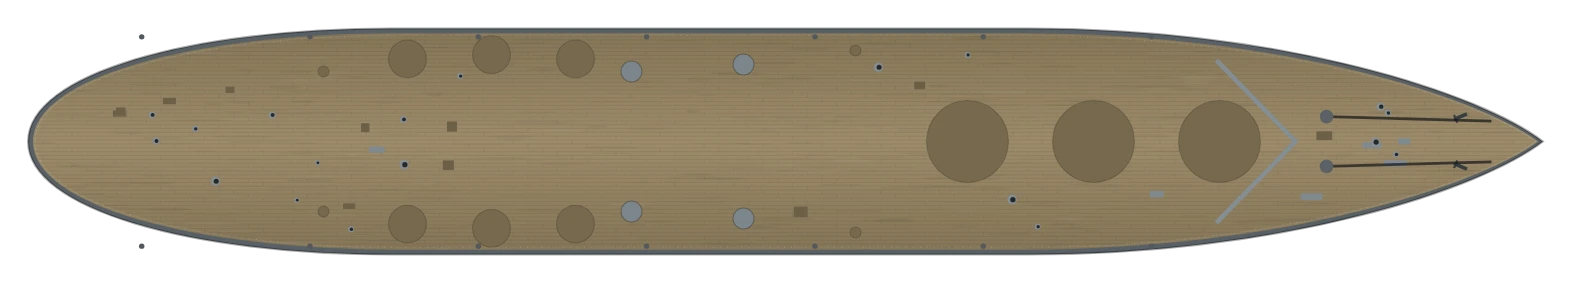
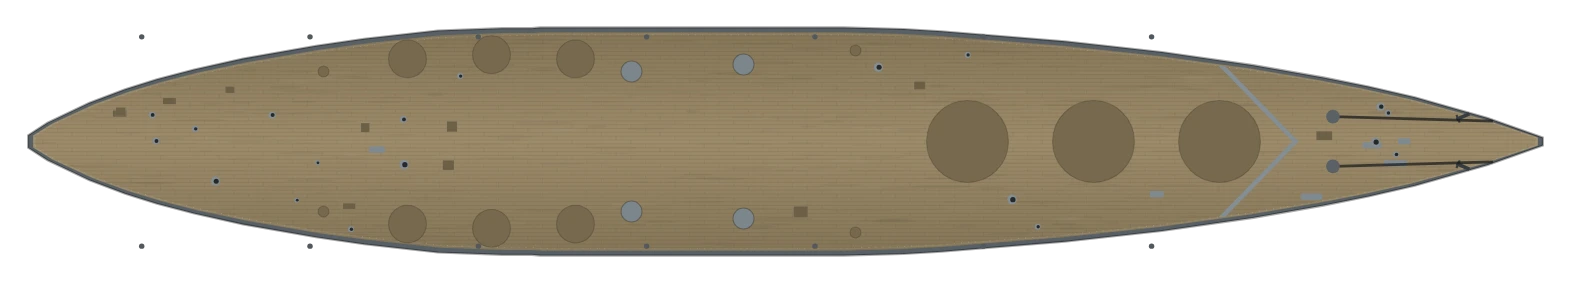
Nelson and Takao hulls traced from the owner's plans; the Takao's third turret faces aft, her bridge moved aft to clear it, one funnel; the Yakumo's CIWS back on her deck
fit_audit: 140 standard-fit faults (from 142; the Yakumo's two CIWS and the Takao's 5-inch pair no longer hang off), none new. aux_test, review_test, run_presets, orders_test pass. shot_art trains a centreline mount to her arc.

Claude-Session: https://claude.ai/code/session_0112riLGm4nSjrgsGiYL5DUG

diff --git a/index.html b/index.html
@@ -398,8 +398,8 @@ const DESIGN_LIST = [
     p: { bow: .32, run: .2, stern: 'c', deck: 'teak', sup: [[30, 18, 12, 4], [-28, 10, 8, 2]], fun: [[8, 3.2, 2.6], [-8, 3.2, 2.6]], mast: [[25, 't'], [-20, 'p']], boats: [[0, 2]], cat: [[80, 0]] },
     slots: [sl('L', 61, 0, FWD, 'g203t'), sl('L', 51, 0, FWD, 'g203t'), sl('L', -49, 0, AFT, 'g203t'), sl('L', -59, 0, AFT, 'g203t'), ...pair('S', 15, 9, 'g102t'), ...pair('S', 1, 9.4, 'g102t'), ...pair('S', -15, 9, 'g102t'), ...pair('A', 24, 8, 'aa40'), ...pair('A', -36, 7.6, 'aa40')] },
   { id: 'ca_takao', cls: 'ca', yard: 'seto', dn: 'Hotaka', model: 'Takao-class cruiser', year: 1932, era: 1, L: 203.8, B: 19, t: 13400, kn: 35.5, td: 880, armor: 102, crew: 773, price: 64000,
-    p: { bow: .36, run: .2, stern: 'c', deck: 'lino', sup: [[30, 24, 13, 5]], fun: [[10, 4, 2.8], [-5, 3.2, 2.4]], mast: [[22, 't'], [-34, 'p']], boats: [[-16, 2]], cat: [[-40, -5], [-40, 5]], crane: [[-47, 0]] },
-    slots: [sl('L', 69, 0, FWD, 'g203t'), sl('L', 59, 0, FWD, 'g203t'), sl('L', 49, 0, FWD, 'g203t'), sl('L', -57, 0, AFT, 'g203t'), sl('L', -67, 0, AFT, 'g203t'), ...pair('M', 4, 8, 'g127'), ...pair('M', -14, 8, 'g127'), ...pair('T', -26, 8, 'tor93'), ...pair('A', 14, 7, 'aa20')] },
+    p: { outline: [[101.9, 0.76], [101.14, 1.52], [99.62, 2.28], [98.64, 2.28], [98.42, 2.93], [98.2, 3.03], [97.55, 3.04], [97.44, 2.82], [96.68, 2.82], [95.27, 3.26], [91.47, 3.84], [85.81, 4.56], [79.73, 5.15], [18.21, 9.28], [5.6, 9.84], [-6.25, 10.03], [-19.08, 9.85], [-33.64, 9.28], [-51.25, 8.26], [-65.6, 7.11], [-72.88, 6.35], [-79.73, 5.46], [-89.51, 3.89], [-95.27, 2.71], [-95.81, 2.7], [-95.92, 2.59], [-97.44, 2.59], [-98.53, 2.05], [-99.94, 1.72], [-100.49, 1.72], [-101.9, 0.96]], deck: 'lino', sup: [[23, 20, 13, 5]], fun: [[1, 7, 4]], mast: [[17, 't'], [-34, 'p']], boats: [[-16, 2]], cat: [[-40, -5], [-40, 5]], crane: [[-47, 0]] },
+    slots: [sl('L', 69, 0, FWD, 'g203t'), sl('L', 59, 0, FWD, 'g203t'), sl('L', 49, 0, AFT, 'g203t'), sl('L', -57, 0, AFT, 'g203t'), sl('L', -67, 0, AFT, 'g203t'), ...pair('M', 4, 8, 'g127'), ...pair('M', -14, 8, 'g127'), ...pair('T', -26, 8, 'tor93'), ...pair('A', 14, 7, 'aa20')] },
   { id: 'ca_hipper', cls: 'ca', yard: 'ostsee', dn: 'Feldherr', model: 'Admiral Hipper-class cruiser', year: 1939, era: 1, L: 202.8, B: 21.3, t: 14050, kn: 32, td: 900, armor: 80, crew: 1382, price: 66000,
     p: { bow: .36, run: .2, stern: 'c', deck: 'teak', sup: [[34, 20, 12, 4], [-32, 12, 9, 2]], fun: [[12, 4.4, 3.4]], mast: [[26, 't'], [-24, 'p']], boats: [[-2, 2]], cat: [[-4, 0]], crane: [[-10, -7], [-10, 7]] },
     slots: [sl('L', 67, 0, FWD, 'g203t'), sl('L', 56, 0, FWD, 'g203t'), sl('L', -56, 0, AFT, 'g203t'), sl('L', -67, 0, AFT, 'g203t'), ...pair('S', 18, 9.2, 'g102t'), ...pair('S', 2, 10, 'g102t'), ...pair('S', -16, 9.2, 'g102t'), ...pair('A', 28, 8, 'aa40'), ...pair('A', -42, 8, 'aa40'), ...pair('T', -38, 9.4, 'tor')] },
@@ -436,7 +436,7 @@ const DESIGN_LIST = [
     p: { bow: .36, run: .22, stern: 't', tw: .45, deck: 'teak', house: [[-2, 64, 16]], sup: [[30, 20, 15, 5], [-30, 16, 11, 3]], fun: [[10, 4, 3.2], [-12, 4, 3.2]], mast: [[22, 't'], [-22, 't']], boats: [[-1, 3]] },
     slots: [sl('H', 66, 0, FWD, 'g381t'), sl('H', 50, 0, FWD, 'g381t'), sl('H', -54, 0, AFT, 'g381t'), sl('H', -70, 0, AFT, 'g381t'), ...pair('M', 30, 12.6, 'g127'), ...pair('M', 18, 13.6, 'g127'), ...pair('M', -20, 13.6, 'g127'), ...pair('M', -34, 12.6, 'g127'), ...pair('A', 41, 10, 'aa40'), ...pair('A', -1, 13.6, 'aa40'), ...pair('A', -44, 10.4, 'aa40')] },
   { id: 'bb_nelson', cls: 'bb', yard: 'clydemouth', dn: 'Rodmoor', model: 'Nelson-class battleship', year: 1927, era: 1, L: 216.4, B: 32.3, t: 33300, kn: 23, td: 800, armor: 356, crew: 1314, price: 120000,
-    p: { bow: .34, run: .24, stern: 'c', deck: 'teak', school: 'tower', house: [[-14, 56, 15]], sup: [[2, 18, 15, 6], [-39, 12, 10, 2]], fun: [[-21, 4.4, 3.4]], mast: [[-34, 't']], boats: [[-12, 2]], crane: [[-28, -9]], tubs: [[-76, 0, 1.8]] },
+    p: { outline: [[108.2, 0.58], [100.33, 3.37], [89.91, 6.31], [83.26, 7.85], [76.83, 9.16], [66.85, 10.91], [53.77, 12.78], [39.91, 14.31], [22.28, 15.74], [16.85, 16.07], [8.31, 16.3], [-35.03, 16.3], [-36.25, 16.19], [-40.46, 16.19], [-49.67, 15.85], [-60.2, 14.67], [-67.07, 13.69], [-77.49, 11.84], [-84.48, 10.3], [-89.8, 8.89], [-94.34, 7.47], [-99.44, 5.55], [-105.43, 2.69], [-108.2, 0.9]], deck: 'teak', school: 'tower', house: [[-14, 56, 15]], sup: [[2, 18, 15, 6], [-39, 12, 10, 2]], fun: [[-21, 4.4, 3.4]], mast: [[-34, 't']], boats: [[-12, 2]], crane: [[-28, -9]], tubs: [[-76, 0, 1.8]] },
     slots: [sl('H', 62, 0, FWD, 'g406'), sl('H', 44, 0, FWD, 'g406'), Object.assign(sl('H', 26, 0, FWD, 'g406'), { low: true }), ...pair('M', -30, 11.8, 'g152t'), ...pair('M', -42, 12.4, 'g152t'), ...pair('M', -54, 11.8, 'g152t'), ...pair('S', 10, 13, 'g102'), ...pair('S', -66, 10, 'g102'), ...pair('A', -6, 11, 'aa40'), ...pair('A', -22, 10, 'aa40')] },
   { id: 'bb_scharnhorst', cls: 'bb', name: 'Fast Battleship', yard: 'ostsee', dn: 'Markgraf', model: 'Scharnhorst-class battleship', year: 1938, era: 1, L: 234.9, B: 30, t: 32100, kn: 31, td: 950, armor: 350, crew: 1669, price: 105000,
     p: { bow: .36, run: .22, stern: 'c', deck: 'teak', house: [[-2, 66, 15]], sup: [[32, 20, 14, 5], [-30, 16, 11, 3]], fun: [[7, 4.6, 3.6]], mast: [[26, 't'], [-22, 'p']], boats: [[-18, 2]], cat: [[-8, 0]], crane: [[-13, -9.5], [-13, 9.5]] },
@@ -629,7 +629,7 @@ const DESIGN_LIST = [
     slots: [sl('T', 28, -1.3, BOW, 'torh'), sl('T', 28, 1.3, BOW, 'torh'), sl('T', 28, 0, BOW, 'torh')] },
   { id: 'cve_izumo', cls: 'cve', name: 'Light Carrier', tech: 'netcentric', yard: 'seto', dn: 'Yakumo', model: 'Izumo-class carrier', year: 2015, era: 4, L: 248, B: 38, t: 19500, kn: 30, td: 1000, armor: 0, crew: 470, hangar: 3, price: 300000,
     p: { bow: .3, run: .2, stern: 't', tw: .6, fd: { w: 38, len: .97, x: 0, isl: [20, 40, 9], modern: true } },
-    slots: [...pair('A', 116, 17.5, 'ciws'), sl('V', -116, -16, ALL, 'sam')] },
+    slots: [...pair('A', 104, 16.5, 'ciws'), sl('V', -116, -16, ALL, 'sam')] },
   { id: 'ss_soryu', cls: 'ss', tech: 'stealth', yard: 'seto', dn: 'Mizuchi', model: 'Soryu-class submarine', year: 2009, era: 4, L: 84, B: 9.1, t: 2900, kn: 13, subKn: 20, td: 420, armor: 0, crew: 65, price: 150000,
     p: { sail: [[12, 9, 2.4]], casing: .22, smooth: true, tear: true, pod: 1 },
     slots: [sl('T', 30, -1.3, BOW, 'torh'), sl('T', 30, 1.3, BOW, 'torh'), sl('V', 22, 0, ALL, 'ssm')] },

diff --git a/src/game.html b/src/game.html
@@ -395,8 +395,8 @@ const DESIGN_LIST = [
     p: { bow: .32, run: .2, stern: 'c', deck: 'teak', sup: [[30, 18, 12, 4], [-28, 10, 8, 2]], fun: [[8, 3.2, 2.6], [-8, 3.2, 2.6]], mast: [[25, 't'], [-20, 'p']], boats: [[0, 2]], cat: [[80, 0]] },
     slots: [sl('L', 61, 0, FWD, 'g203t'), sl('L', 51, 0, FWD, 'g203t'), sl('L', -49, 0, AFT, 'g203t'), sl('L', -59, 0, AFT, 'g203t'), ...pair('S', 15, 9, 'g102t'), ...pair('S', 1, 9.4, 'g102t'), ...pair('S', -15, 9, 'g102t'), ...pair('A', 24, 8, 'aa40'), ...pair('A', -36, 7.6, 'aa40')] },
   { id: 'ca_takao', cls: 'ca', yard: 'seto', dn: 'Hotaka', model: 'Takao-class cruiser', year: 1932, era: 1, L: 203.8, B: 19, t: 13400, kn: 35.5, td: 880, armor: 102, crew: 773, price: 64000,
-    p: { bow: .36, run: .2, stern: 'c', deck: 'lino', sup: [[30, 24, 13, 5]], fun: [[10, 4, 2.8], [-5, 3.2, 2.4]], mast: [[22, 't'], [-34, 'p']], boats: [[-16, 2]], cat: [[-40, -5], [-40, 5]], crane: [[-47, 0]] },
-    slots: [sl('L', 69, 0, FWD, 'g203t'), sl('L', 59, 0, FWD, 'g203t'), sl('L', 49, 0, FWD, 'g203t'), sl('L', -57, 0, AFT, 'g203t'), sl('L', -67, 0, AFT, 'g203t'), ...pair('M', 4, 8, 'g127'), ...pair('M', -14, 8, 'g127'), ...pair('T', -26, 8, 'tor93'), ...pair('A', 14, 7, 'aa20')] },
+    p: { outline: [[101.9, 0.76], [101.14, 1.52], [99.62, 2.28], [98.64, 2.28], [98.42, 2.93], [98.2, 3.03], [97.55, 3.04], [97.44, 2.82], [96.68, 2.82], [95.27, 3.26], [91.47, 3.84], [85.81, 4.56], [79.73, 5.15], [18.21, 9.28], [5.6, 9.84], [-6.25, 10.03], [-19.08, 9.85], [-33.64, 9.28], [-51.25, 8.26], [-65.6, 7.11], [-72.88, 6.35], [-79.73, 5.46], [-89.51, 3.89], [-95.27, 2.71], [-95.81, 2.7], [-95.92, 2.59], [-97.44, 2.59], [-98.53, 2.05], [-99.94, 1.72], [-100.49, 1.72], [-101.9, 0.96]], deck: 'lino', sup: [[23, 20, 13, 5]], fun: [[1, 7, 4]], mast: [[17, 't'], [-34, 'p']], boats: [[-16, 2]], cat: [[-40, -5], [-40, 5]], crane: [[-47, 0]] },
+    slots: [sl('L', 69, 0, FWD, 'g203t'), sl('L', 59, 0, FWD, 'g203t'), sl('L', 49, 0, AFT, 'g203t'), sl('L', -57, 0, AFT, 'g203t'), sl('L', -67, 0, AFT, 'g203t'), ...pair('M', 4, 8, 'g127'), ...pair('M', -14, 8, 'g127'), ...pair('T', -26, 8, 'tor93'), ...pair('A', 14, 7, 'aa20')] },
   { id: 'ca_hipper', cls: 'ca', yard: 'ostsee', dn: 'Feldherr', model: 'Admiral Hipper-class cruiser', year: 1939, era: 1, L: 202.8, B: 21.3, t: 14050, kn: 32, td: 900, armor: 80, crew: 1382, price: 66000,
     p: { bow: .36, run: .2, stern: 'c', deck: 'teak', sup: [[34, 20, 12, 4], [-32, 12, 9, 2]], fun: [[12, 4.4, 3.4]], mast: [[26, 't'], [-24, 'p']], boats: [[-2, 2]], cat: [[-4, 0]], crane: [[-10, -7], [-10, 7]] },
     slots: [sl('L', 67, 0, FWD, 'g203t'), sl('L', 56, 0, FWD, 'g203t'), sl('L', -56, 0, AFT, 'g203t'), sl('L', -67, 0, AFT, 'g203t'), ...pair('S', 18, 9.2, 'g102t'), ...pair('S', 2, 10, 'g102t'), ...pair('S', -16, 9.2, 'g102t'), ...pair('A', 28, 8, 'aa40'), ...pair('A', -42, 8, 'aa40'), ...pair('T', -38, 9.4, 'tor')] },
@@ -433,7 +433,7 @@ const DESIGN_LIST = [
     p: { bow: .36, run: .22, stern: 't', tw: .45, deck: 'teak', house: [[-2, 64, 16]], sup: [[30, 20, 15, 5], [-30, 16, 11, 3]], fun: [[10, 4, 3.2], [-12, 4, 3.2]], mast: [[22, 't'], [-22, 't']], boats: [[-1, 3]] },
     slots: [sl('H', 66, 0, FWD, 'g381t'), sl('H', 50, 0, FWD, 'g381t'), sl('H', -54, 0, AFT, 'g381t'), sl('H', -70, 0, AFT, 'g381t'), ...pair('M', 30, 12.6, 'g127'), ...pair('M', 18, 13.6, 'g127'), ...pair('M', -20, 13.6, 'g127'), ...pair('M', -34, 12.6, 'g127'), ...pair('A', 41, 10, 'aa40'), ...pair('A', -1, 13.6, 'aa40'), ...pair('A', -44, 10.4, 'aa40')] },
   { id: 'bb_nelson', cls: 'bb', yard: 'clydemouth', dn: 'Rodmoor', model: 'Nelson-class battleship', year: 1927, era: 1, L: 216.4, B: 32.3, t: 33300, kn: 23, td: 800, armor: 356, crew: 1314, price: 120000,
-    p: { bow: .34, run: .24, stern: 'c', deck: 'teak', school: 'tower', house: [[-14, 56, 15]], sup: [[2, 18, 15, 6], [-39, 12, 10, 2]], fun: [[-21, 4.4, 3.4]], mast: [[-34, 't']], boats: [[-12, 2]], crane: [[-28, -9]], tubs: [[-76, 0, 1.8]] },
+    p: { outline: [[108.2, 0.58], [100.33, 3.37], [89.91, 6.31], [83.26, 7.85], [76.83, 9.16], [66.85, 10.91], [53.77, 12.78], [39.91, 14.31], [22.28, 15.74], [16.85, 16.07], [8.31, 16.3], [-35.03, 16.3], [-36.25, 16.19], [-40.46, 16.19], [-49.67, 15.85], [-60.2, 14.67], [-67.07, 13.69], [-77.49, 11.84], [-84.48, 10.3], [-89.8, 8.89], [-94.34, 7.47], [-99.44, 5.55], [-105.43, 2.69], [-108.2, 0.9]], deck: 'teak', school: 'tower', house: [[-14, 56, 15]], sup: [[2, 18, 15, 6], [-39, 12, 10, 2]], fun: [[-21, 4.4, 3.4]], mast: [[-34, 't']], boats: [[-12, 2]], crane: [[-28, -9]], tubs: [[-76, 0, 1.8]] },
     slots: [sl('H', 62, 0, FWD, 'g406'), sl('H', 44, 0, FWD, 'g406'), Object.assign(sl('H', 26, 0, FWD, 'g406'), { low: true }), ...pair('M', -30, 11.8, 'g152t'), ...pair('M', -42, 12.4, 'g152t'), ...pair('M', -54, 11.8, 'g152t'), ...pair('S', 10, 13, 'g102'), ...pair('S', -66, 10, 'g102'), ...pair('A', -6, 11, 'aa40'), ...pair('A', -22, 10, 'aa40')] },
   { id: 'bb_scharnhorst', cls: 'bb', name: 'Fast Battleship', yard: 'ostsee', dn: 'Markgraf', model: 'Scharnhorst-class battleship', year: 1938, era: 1, L: 234.9, B: 30, t: 32100, kn: 31, td: 950, armor: 350, crew: 1669, price: 105000,
     p: { bow: .36, run: .22, stern: 'c', deck: 'teak', house: [[-2, 66, 15]], sup: [[32, 20, 14, 5], [-30, 16, 11, 3]], fun: [[7, 4.6, 3.6]], mast: [[26, 't'], [-22, 'p']], boats: [[-18, 2]], cat: [[-8, 0]], crane: [[-13, -9.5], [-13, 9.5]] },
@@ -626,7 +626,7 @@ const DESIGN_LIST = [
     slots: [sl('T', 28, -1.3, BOW, 'torh'), sl('T', 28, 1.3, BOW, 'torh'), sl('T', 28, 0, BOW, 'torh')] },
   { id: 'cve_izumo', cls: 'cve', name: 'Light Carrier', tech: 'netcentric', yard: 'seto', dn: 'Yakumo', model: 'Izumo-class carrier', year: 2015, era: 4, L: 248, B: 38, t: 19500, kn: 30, td: 1000, armor: 0, crew: 470, hangar: 3, price: 300000,
     p: { bow: .3, run: .2, stern: 't', tw: .6, fd: { w: 38, len: .97, x: 0, isl: [20, 40, 9], modern: true } },
-    slots: [...pair('A', 116, 17.5, 'ciws'), sl('V', -116, -16, ALL, 'sam')] },
+    slots: [...pair('A', 104, 16.5, 'ciws'), sl('V', -116, -16, ALL, 'sam')] },
   { id: 'ss_soryu', cls: 'ss', tech: 'stealth', yard: 'seto', dn: 'Mizuchi', model: 'Soryu-class submarine', year: 2009, era: 4, L: 84, B: 9.1, t: 2900, kn: 13, subKn: 20, td: 420, armor: 0, crew: 65, price: 150000,
     p: { sail: [[12, 9, 2.4]], casing: .22, smooth: true, tear: true, pod: 1 },
     slots: [sl('T', 30, -1.3, BOW, 'torh'), sl('T', 30, 1.3, BOW, 'torh'), sl('V', 22, 0, ALL, 'ssm')] },

diff --git a/docs/AGENT_NOTES.md b/docs/AGENT_NOTES.md
@@ -88,3 +88,4 @@
 - **Prices live in two copies**: `src/game.html` and `index.html` (the page `tools/bake_assets.js` actually loads) carry the same tables; change both, then `DATA_ONLY=1 node tools/bake_assets.js`.
 - **Nightly check**: a scheduled cloud session (environment "Iron Meridian (Test-)", whose setup script installs Godot 4.3 with its checksum) runs `tools/run_tests.sh` and a 365-day soak on `claude/serene-dirac-1gppx0` at 02:43 UTC and reports to the owner's phone.
 - **Hulls traced from the owner's plans** (14 Nov 2026): `bb_iowa` and `bb_montana` (a line drawing of both), `bb_bismarck` and `bb_kgv` (a coloured plan of Bismarck and Prince of Wales with metre scales) carry an `outline` traced from the deck edge of a top view: the outermost line per pixel column, mirrored about a fitted centreline, gaps in a broken edge bridged with a rolling max or fittings (ladders, booms, text) removed with a rolling median, the last few metres at each end kept from a finer trace, then simplified to 30 to 50 points (Douglas-Peucker, 0.08 m). Scale from the drawing's own bar or the design's length; the traced beams agreed with the real ones within 0.6 m. Turrets and upper works were not moved. fit_audit unchanged for all four. The plans themselves are not kept in the repository (some are copyrighted).
+- **More from the owner's plans** (14 Nov 2026): `bb_nelson` and `ca_takao` hulls traced the same way (the Takao's with a smooth fit under her sponsons and boat platforms, which stand out past the hull as on the real ship). The Takao, at his word and after his plan (the Takao-Kai design of 1929/30): the forward turret nearest the bridge faces aft (`sl('L', 49, 0, AFT, ...)`), the bridge moved aft to clear it (`sup` 13 to 33 m, the foremast with it) and one trunked funnel (`fun: [[1, 7, 4]]`). The Yakumo's (`cve_izumo`) CIWS pair moved from x 116, 17.5 m out (off the angled bow of the flight deck, over the water) to x 104, 16.5 m out. `tests/shot_art` now trains a centreline mount to the middle of her own arc, as the game does at the start of an action (it pointed every mount forward of amidships ahead).
